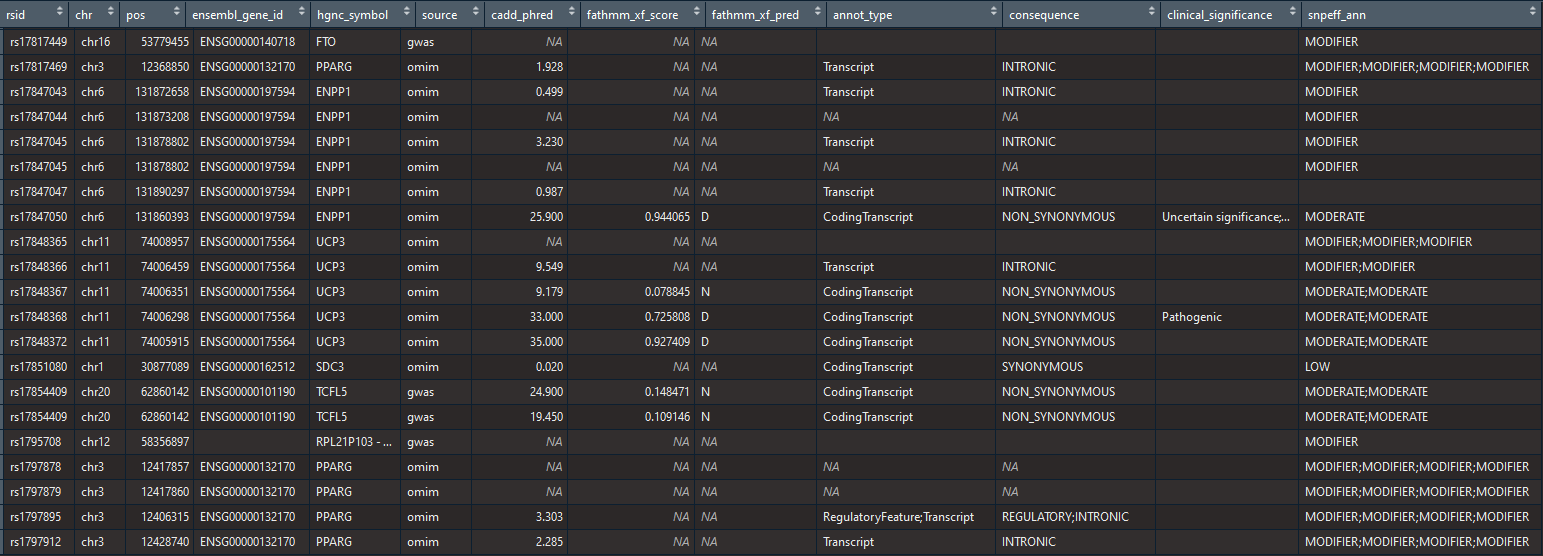
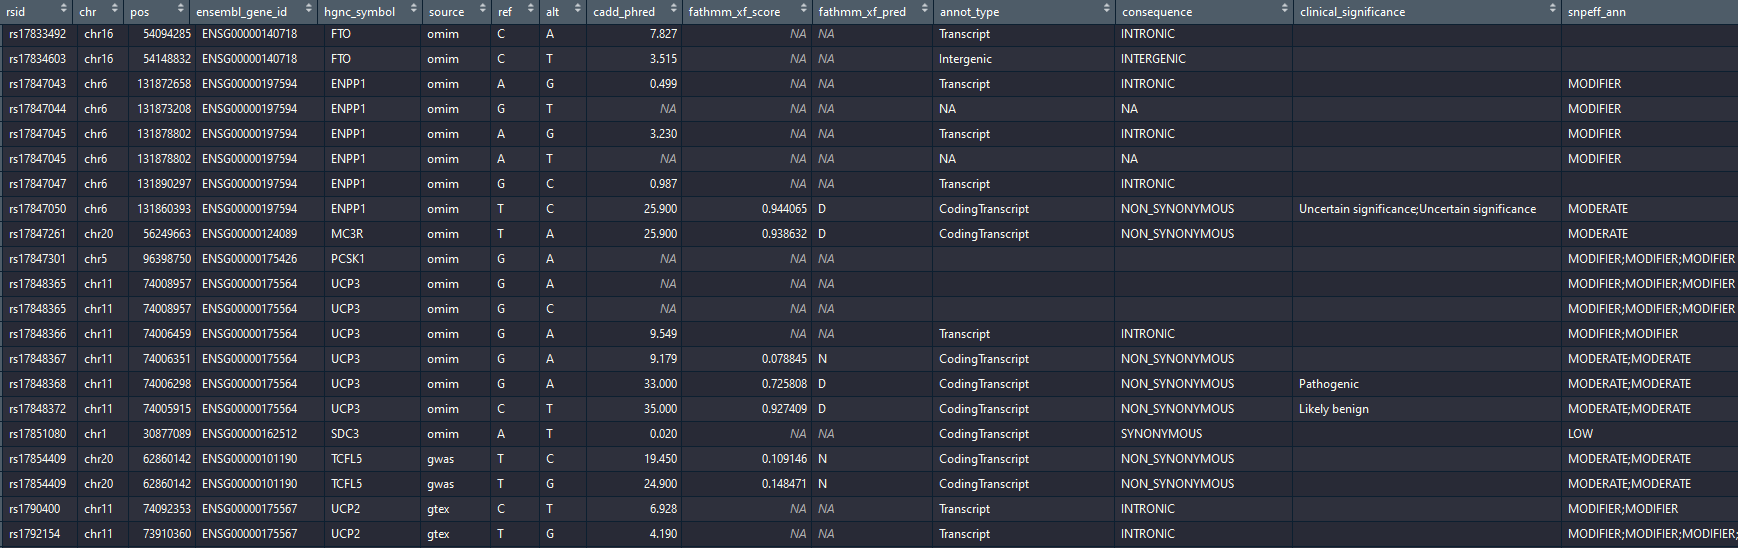
Added ref and alt alleles information to the annotation
Now the variants are annotated with the "ref" and "alt" alleles. Which will give more precision to the annotation (the same SNP can be more or less deleterious depending on which allele is alternative).

Corrected some examples which were still using "omim_morbid" instead of "omim_morbid_ids"

Changed region(s): [[0.0, 0.0, 1.0, 1.0]]

diff --git a/README.md b/README.md
@@ -41,6 +41,7 @@ Corentin Molitor, Matt Brember, Fady Mohareb, VarGen: An R package for disease-a
 - [Tips](#tips)
     - [How to plot the gwas variants](#how-to-plot-the-gwas-variants)
     - [How to plot the omim variants](#how-to-plot-the-omim-variants)
+- [Some Examples](#some-examples)
 
 ## VarGen workflow
 
@@ -241,7 +242,7 @@ adipose_tissues <- select_gtex_tissues("./vargen_data/GTEx_Analysis_v8_eQTL/",
 obesity_traits <- list_gwas_traits("obesity", "./vargen_data/")
 
 obesity_variants <- vargen_pipeline(vargen_dir = "./vargen_data/", 
-                                    omim_morbid = "601665", 
+                                    omim_morbid_ids = "601665", 
                                     gtex_tissues = adipose_tissues, 
                                     gwas_traits = obesity_traits, 
                                     verbose = T)
@@ -274,7 +275,7 @@ The annotation contains:
  - [fathmm-xf score](https://academic.oup.com/bioinformatics/article/34/3/511/4104409 "fathmm-xf manuscript"): between 0 and 1, a higher value means a more deleterious variant. (more confidence closer to 0 or 1)
  - [fathmm-xf prediction](https://academic.oup.com/bioinformatics/article/34/3/511/4104409 "fathmm-xf manuscript"): "D" (DAMAGING) if score > 0.5 or "N" (NEUTRAL) otherwise.
  - **Annotation type**: information about the variant location (eg: coding, non-coding, regulatory region...)
- - **Consequence**: gives more information on the functionnal effect (eg: REGULATORY, DOWNSTREAM, STOP_GAINED, SPLICE-SITE...)
+ - **Consequence**: gives more information on the functional effect (eg: REGULATORY, DOWNSTREAM, STOP_GAINED, SPLICE-SITE...)
  - [ClinVar clinical significance](https://www.ncbi.nlm.nih.gov/clinvar/docs/clinsig/ "Representation of clinical significance in ClinVar and other variation resources at NCBI"): standard to report the clinical significance of certain variants (eg: "benign", "pathogenic", "drug response" etc....). 
  - [snpEff impact](http://snpeff.sourceforge.net/SnpEff_manual.html "snpEff Manual"): assessment of the putative impact of the variant (HIGH, MODERATE, MODIFIER or LOW).
 
@@ -434,7 +435,23 @@ vargen_visualisation(annotated_snps = obesity_vargen_ann, verbose = T,
 ````
 ![vargen visualisation with highlighted variants](./images/SIM1_ENSG00000112246_GVIZ_highlighted.png?raw=true)
 
-### More examples
+### ensembl
+
+If you come accross the following error when trying to use VarGen:
+````
+Error in bmRequest(request = request, ssl.verifypeer = ssl.verifypeer,  : 
+  Internal Server Error (HTTP 500).
+````
+
+It means that the ensembl server you are trying to access is not available (by 
+default VarGen tries to access the "www" mirror of ensembl).
+
+To solve this issue, you can try to connect with a different mirror ("useast", "uswest" or "asia"):
+````
+gene_ensembl <- connect_to_gene_ensembl(mirror = "useast")
+````
+
+## Some examples
 
 In the following example we are assuming that the files described in "Installation" have been installed in the folder 
 "./vargen_data", either manually or by running:
@@ -445,7 +462,7 @@ In the following example we are assuming that the files described in "Installati
  - Example 1: "Simple query for Type 1 Diabetes Mellitus"
 ````
 T1DM_variants <- vargen_pipeline(vargen_dir = "./vargen_data",
-                                 omim_morbid = "222100")
+                                 omim_morbid_ids = "222100")
 ````
 
  - Example 2: "Type 1 Diabetes Mellitus with GTEx"
@@ -456,7 +473,7 @@ pancreas_gtex <- select_gtex_tissues(gtex_dir = "./vargen_data/GTEx_Analysis_v8_
                                      tissues_query = "pancreas")
 
 T1DM_variants <- vargen_pipeline(vargen_dir = "./vargen_data", 
-                                 omim_morbid = "222100", 
+                                 omim_morbid_ids = "222100", 
                                  gtex_tissues = pancreas_gtex)
 ````
 
@@ -474,7 +491,7 @@ list_gwas_traits(keywords = "obesity")
 gwas_obesity <- c("Obesity (extreme)", "Obesity-related traits", "Obesity", "Obesity (early onset extreme)")
 
 Obesity_variants <- vargen_pipeline(vargen_dir = "./vargen_data",
-                                    omim_morbid = "601665", 
+                                    omim_morbid_ids = "601665", 
                                     gtex_tissues = adipose_gtex,
                                     gwas_traits = gwas_obesity,
                                     fantom_corr = 0.25, 
